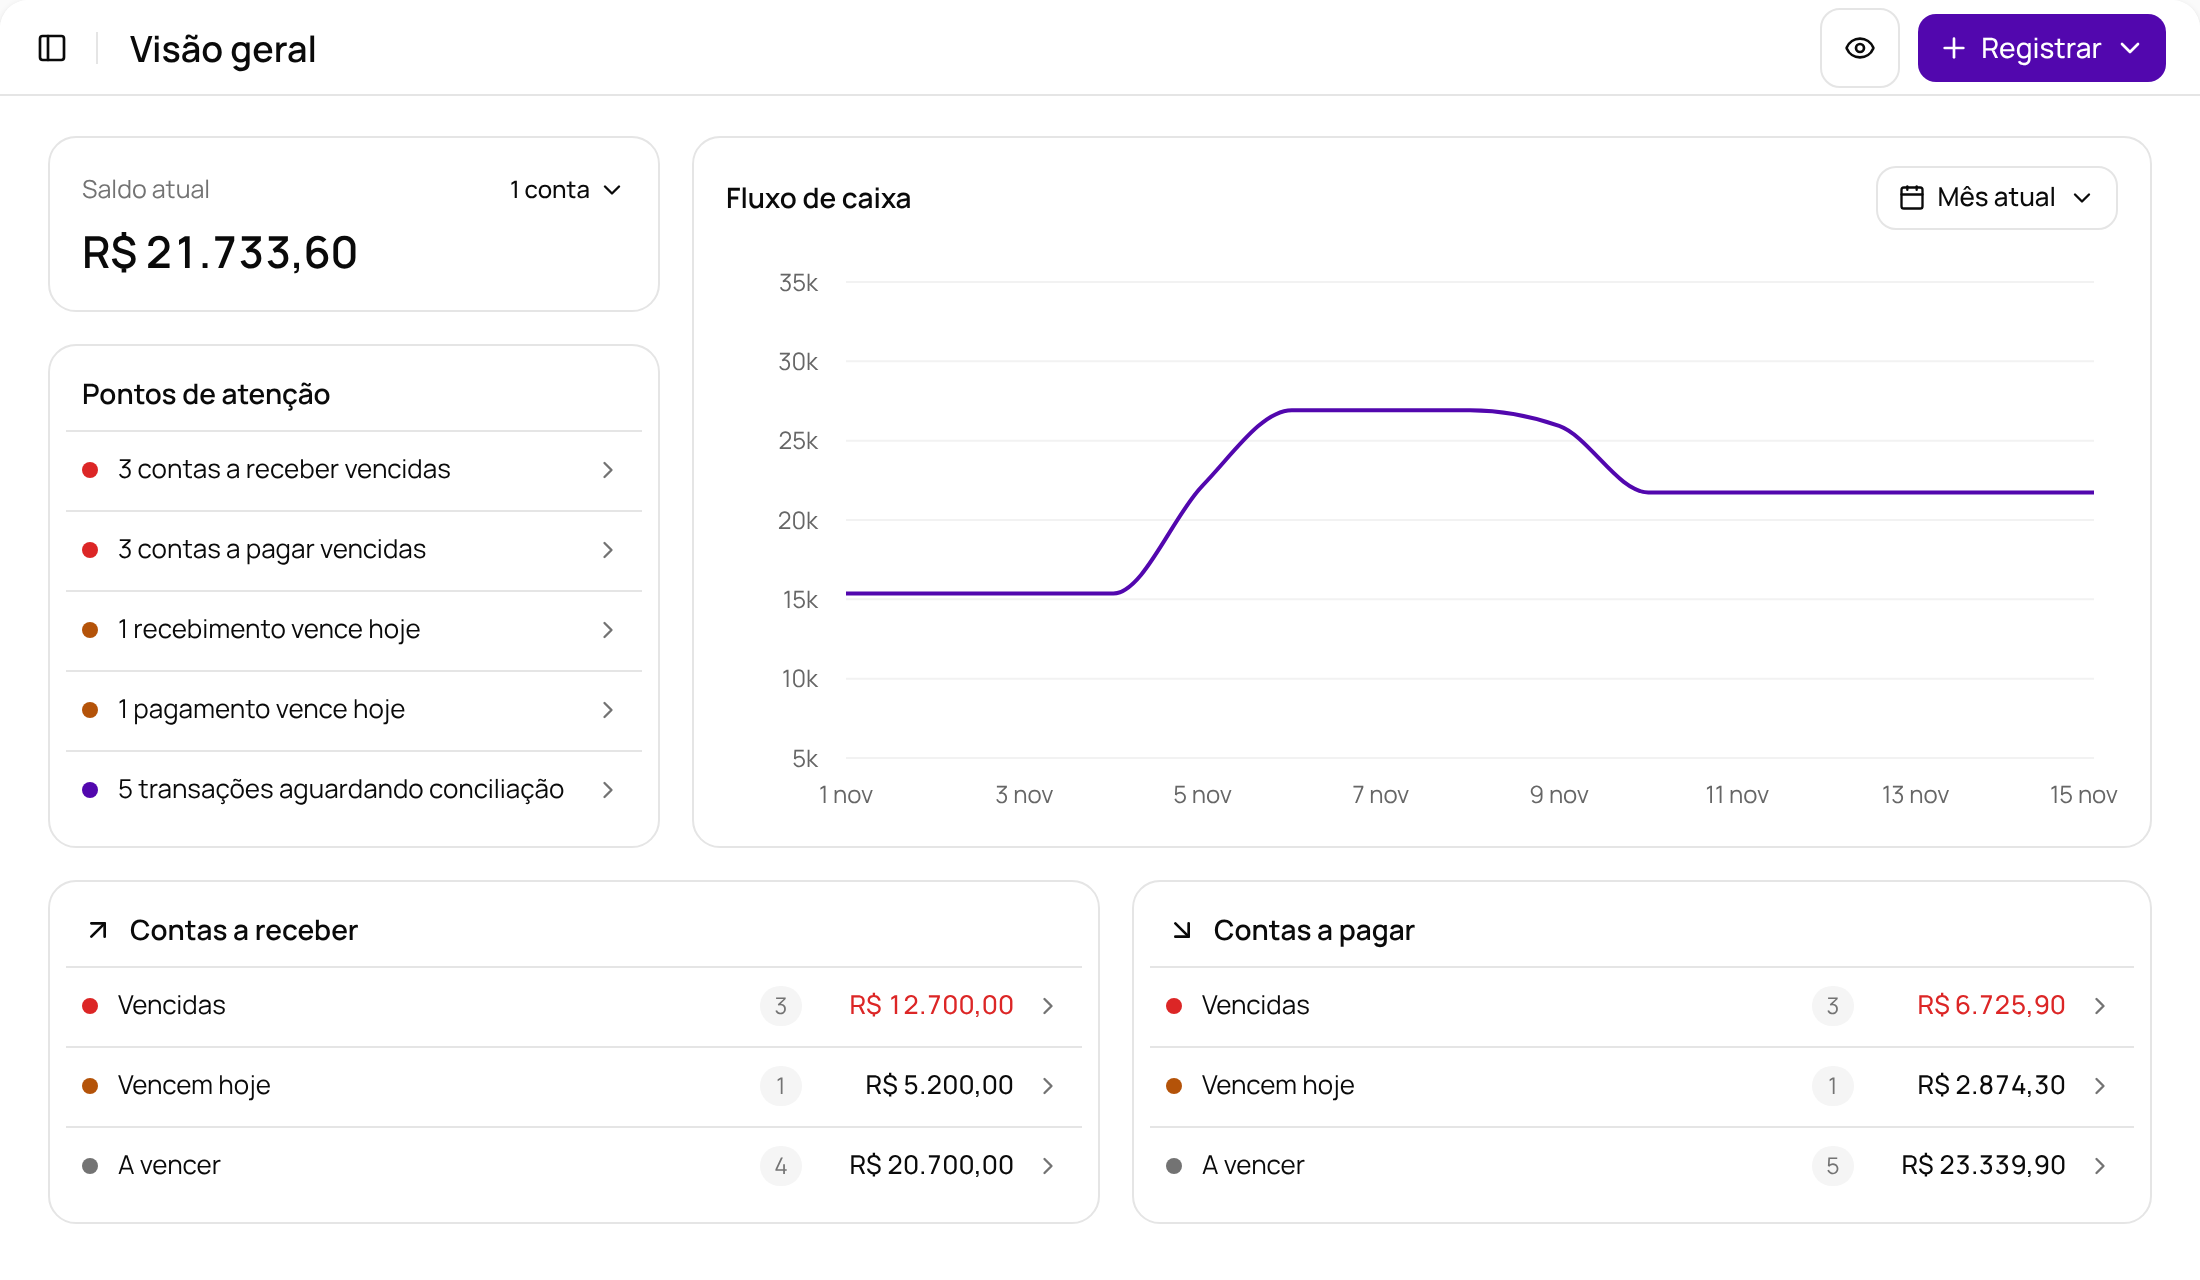
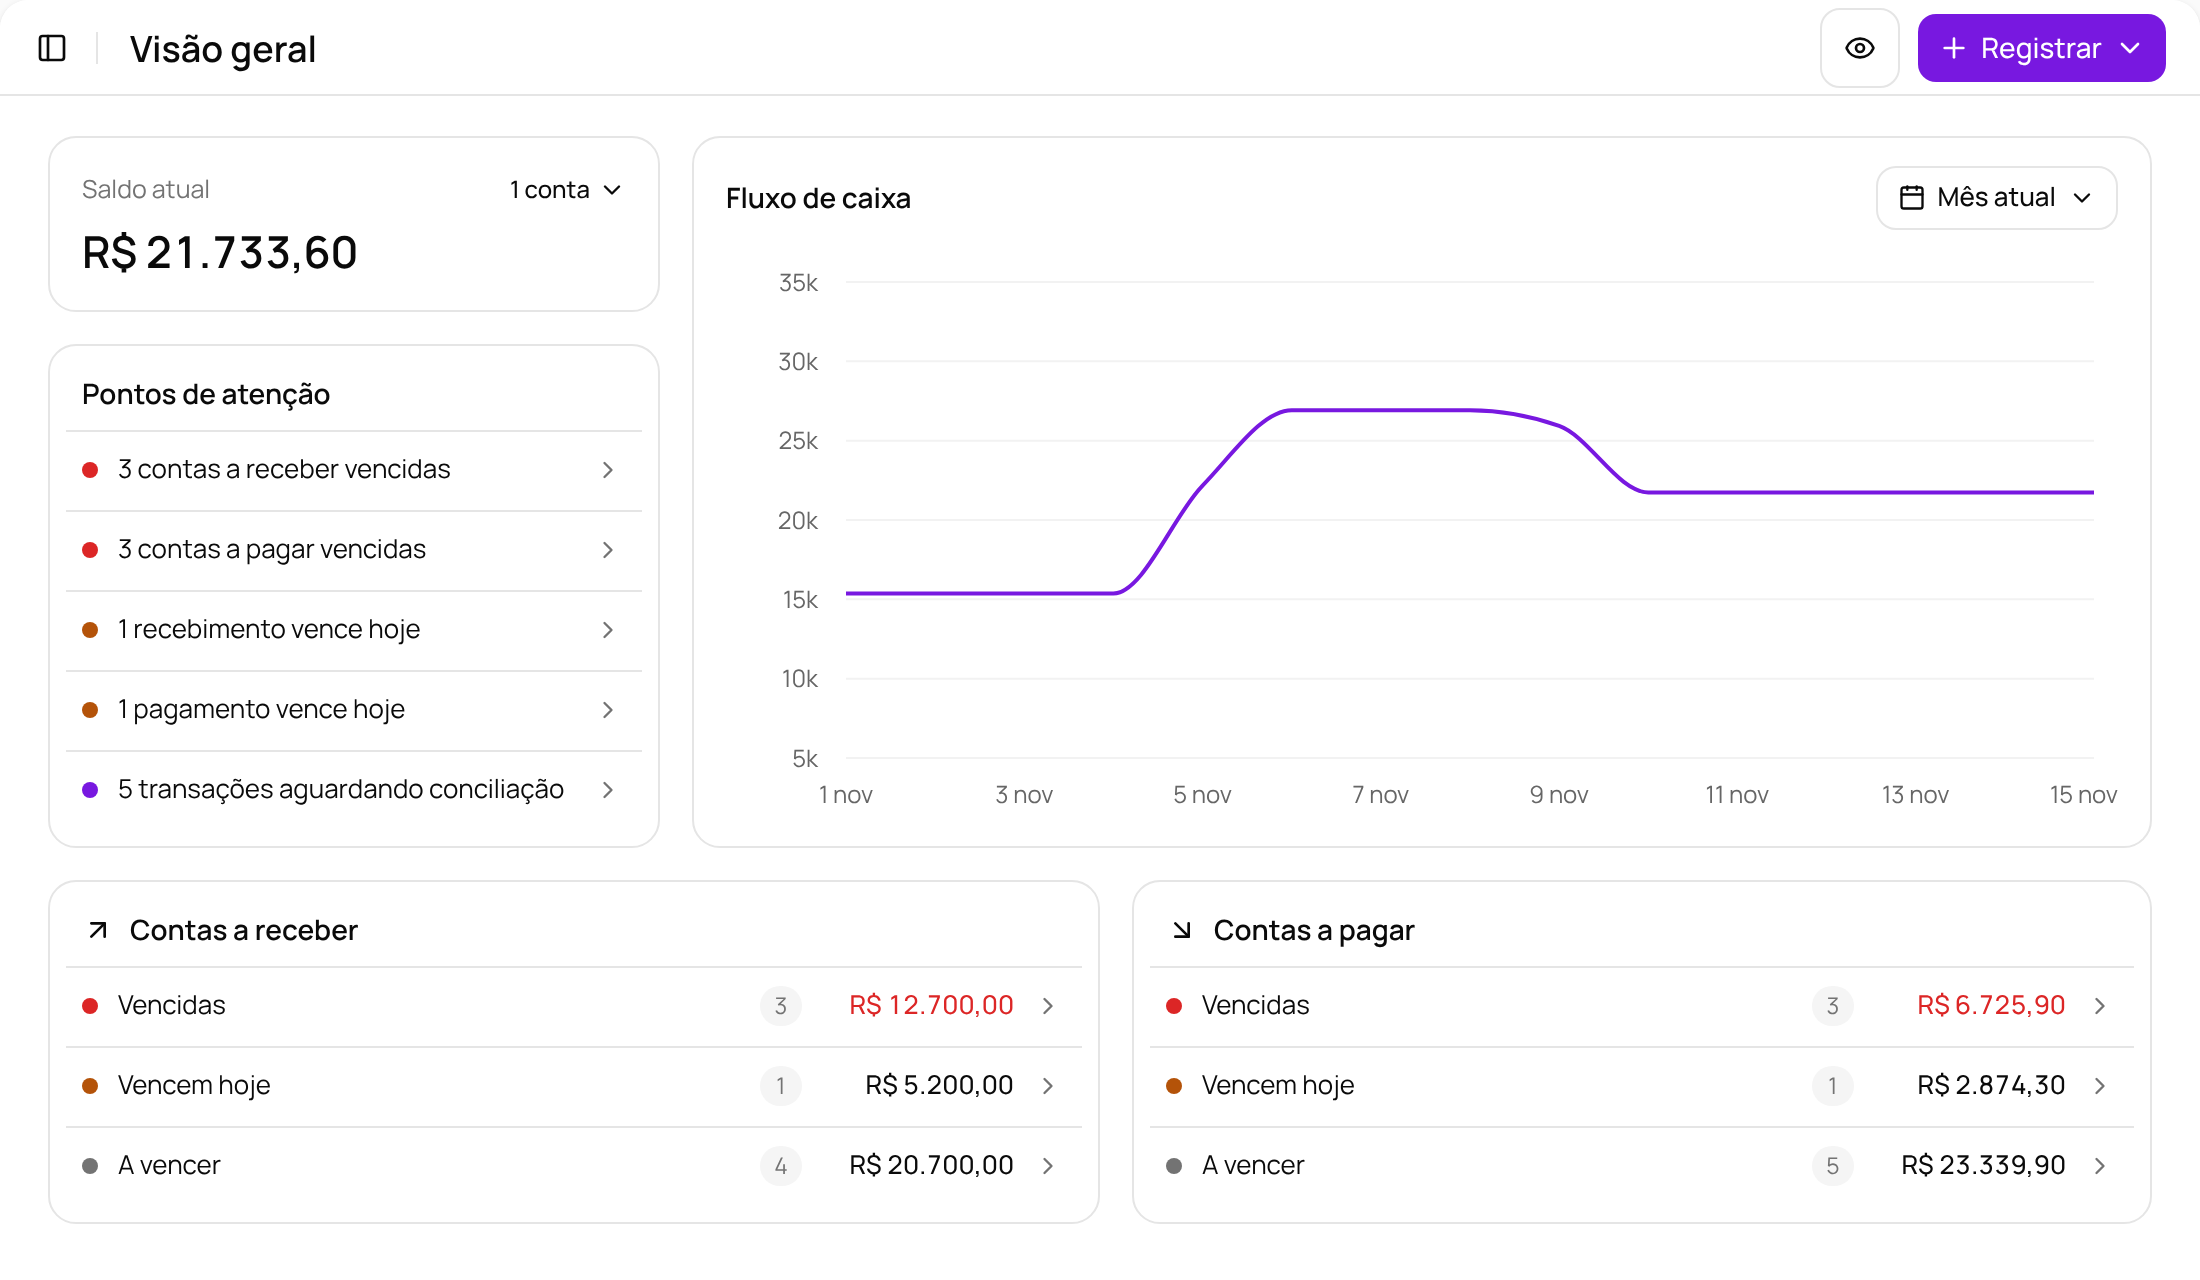
feat: roxo do sistema no novo tom
Troca o roxo dos tokens e da paleta dos PDFs de #5207AE para #7818E0,
com o roxo escuro acompanhando o novo matiz. A landing passa a herdar
o roxo do sistema, e as capturas de tela dela foram refeitas.

Claude-Session: https://claude.ai/code/session_01ViKXZZMnpFTD1XPfjWS9uZ

diff --git a/src/app/globals.css b/src/app/globals.css
@@ -8,9 +8,9 @@
    for small text on white, where the brand tones fail WCAG AA (green 1.3:1,
    lilac 3.6:1). `red-light` and `amber-light` are their dark-mode readings. */
 @theme {
-  --color-capi-purple: #5207ae;
-  --color-capi-purple-dark: #300766;
-  --color-capi-purple-deep: #3d0782;
+  --color-capi-purple: #7818e0;
+  --color-capi-purple-dark: #3b0b7a;
+  --color-capi-purple-deep: #5a0fb0;
   --color-capi-cream: #f4f0dc;
   --color-capi-lilac: #9e69fa;
   --color-capi-lilac-light: #f4f2ff;
@@ -255,16 +255,13 @@
   75% { translate: -3px 0; }
 }
 
-/* The landing page wears a brighter violet than the app, with an aubergine
-   for text and dark bands. Scoped here so the app's tokens stay as they are. */
+/* The landing page swaps the app's dark violet for an aubergine, used for
+   text and dark bands, and lightens the lilacs. Scoped here so the app's
+   tokens stay as they are. */
 .landing {
-  --color-capi-purple: #7818e0;
-  --color-capi-purple-deep: #5a0fb0;
   --color-capi-purple-dark: #1d0b33;
   --color-capi-lilac: #b58cff;
   --color-capi-lilac-light: #f5efff;
-  --primary: #7818e0;
-  --ring: #7818e0;
   --foreground: #1d0b33;
   --muted-foreground: #645a70;
 }

diff --git a/src/lib/print-palette.ts b/src/lib/print-palette.ts
@@ -3,8 +3,8 @@
 // this is the only place outside globals.css that spells out a color.
 
 export const capiHex = {
-  purpleDark: "#300766",
-  purple: "#5207ae",
+  purpleDark: "#3b0b7a",
+  purple: "#7818e0",
   lilacLight: "#f4f2ff",
   red: "#dc2626",
   white: "#ffffff",
